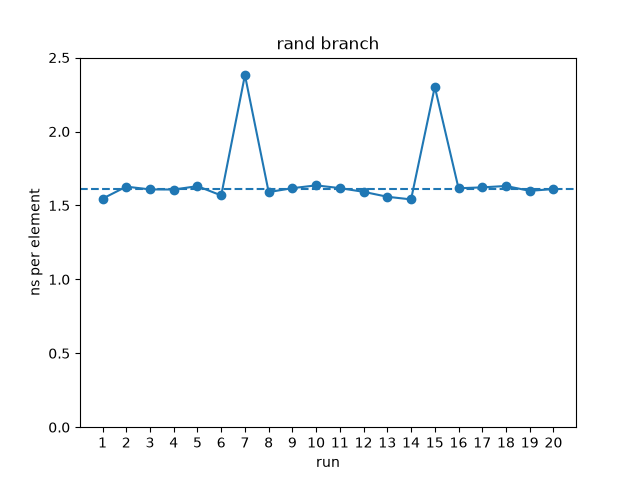
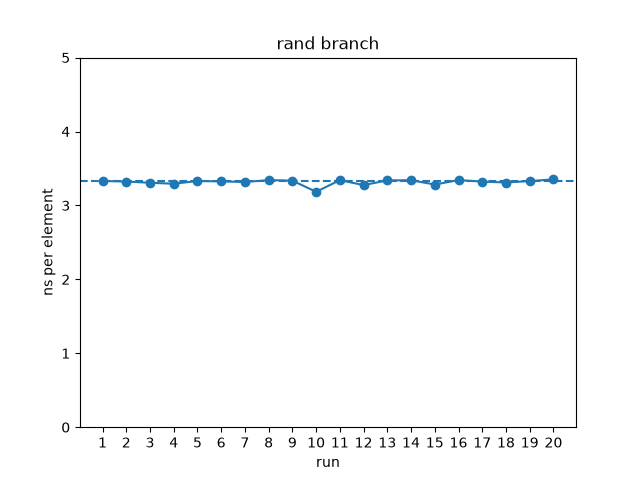
finish phase 1

diff --git a/analysis/plot_branch_noise.py b/analysis/plot_branch_noise.py
@@ -36,6 +36,6 @@ ax.set_xticks(x)
 # include a dashed median line
 ax.axhline(panda_dataframe["ns_per_elem"].median(), linestyle="--")
 ax.set_ylim(bottom=0)
-ax.set_ylim(0, 2.5)
+ax.set_ylim(0, 5)
 # save the figure
 fig.savefig(input_file_path.with_suffix(".png"))

diff --git a/NOTEBOOK.md b/NOTEBOOK.md
@@ -144,3 +144,47 @@ Phase 1:
 - ubuntu blocks pip install system-wide --> use virtual environment to run python.
     - activate virtual env = source .venv/bin/activate
     - record what we installed = pip freeze > requirements.txt
+- branch predictor training is not transferred across different CPU cores --> if a program is run on multiple cores --> the branch predictor training for it will be restarted on the new core --> add more runtime.
+    - --> run a program on different nodes will cause overhead (e.g. take data about the program from a cache of this node to the cache of the other node) + new branch predictor training.
+    - --> bad for performance.
+    - --> pin the program on 1 core. (e.g. taskset -c core_id)
+- to reduce performance variability and increase performance, set the scaling governor = performance governor --> run at max CPU frequency.
+    - to see all governors that the machine support:
+        ```
+            cat /sys/devices/system/cpu/cpu0/cpufreq/scaling_available_governors
+        ```
+    - to see what governor that the machine is using:
+        ```
+            cat /sys/devices/system/cpu/cpu0/cpufreq/scaling_governor
+        ```
+    - to set the performance governor to one core (core 0): 
+        ```
+            sudo cpupower -c 0 frequency-set -g performance
+        ```
+    - to undo it:
+        ```
+            sudo cpupower -c 0 frequency-set -g powersave
+        ```
+- with turbo, the core can run the program at a frequency that is higher than its normal speed range, but it needs to depend on the temperature --> not steady --> should turn turbo off.
+    - turn turbo off:
+        ```
+            echo 1 | sudo tee /sys/devices/system/cpu/intel_pstate/no_turbo
+        ```
+    - turn turbo on:
+        ```
+            echo 0 | sudo tee /sys/devices/system/cpu/intel_pstate/no_turbo
+        ```
+- frequency = cycles per second | 1 Ghz = 1 billion cycles per second.
+- as we turn off turbo, the CPU will run with the base frequency --> less # of cycles per second but steadier.
+- with turbo on:
+    - peak runtime = 1.6 ns per element
+    - peak frequency = 4.7 Ghz = 4,700,000,000 cycles per sec
+    - --> # of cycles per element = 1.6 x 10^-9 x 4.7 x 10^9 = 7.52 cycles per element
+- with turbo off:
+    - peak runtime = 3.3 ns per element
+    - peak frequency = 2.2 Ghz = 2,200,000,000 cycles per sec
+    - --> # of cycles per element = 3.3 x 10^-9 x 2.2 x 10^9 = 7.25 cycles per element
+- --> # of cycles per element is roughly the same.
+- --> same amount of work to be done, but each step is longer without turbo.
+- --> turbo changes how long each cycle lasts, not the amount of work we need to finish a job.
+- --> we want the steadier baseline for this project as it will help us detect the contentsion easier. (e.g. a sudden jump from a steady line)
